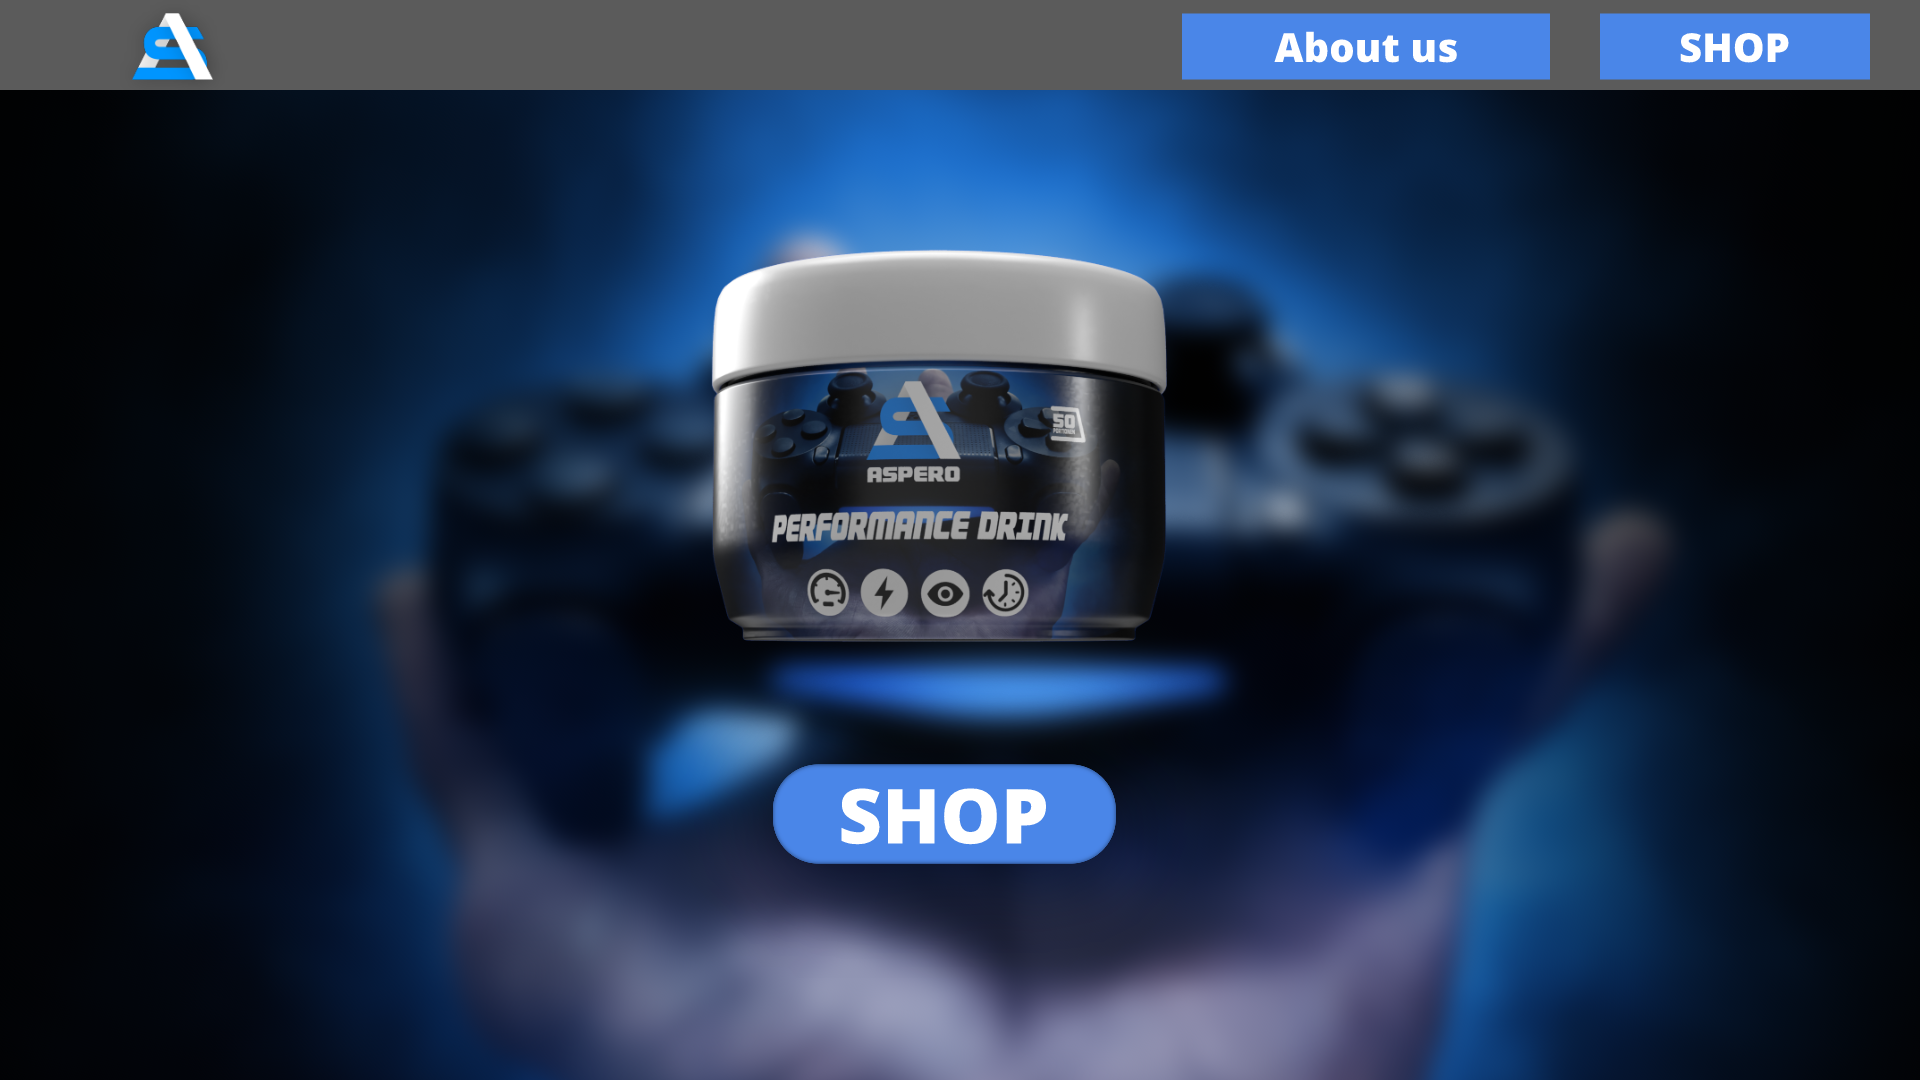
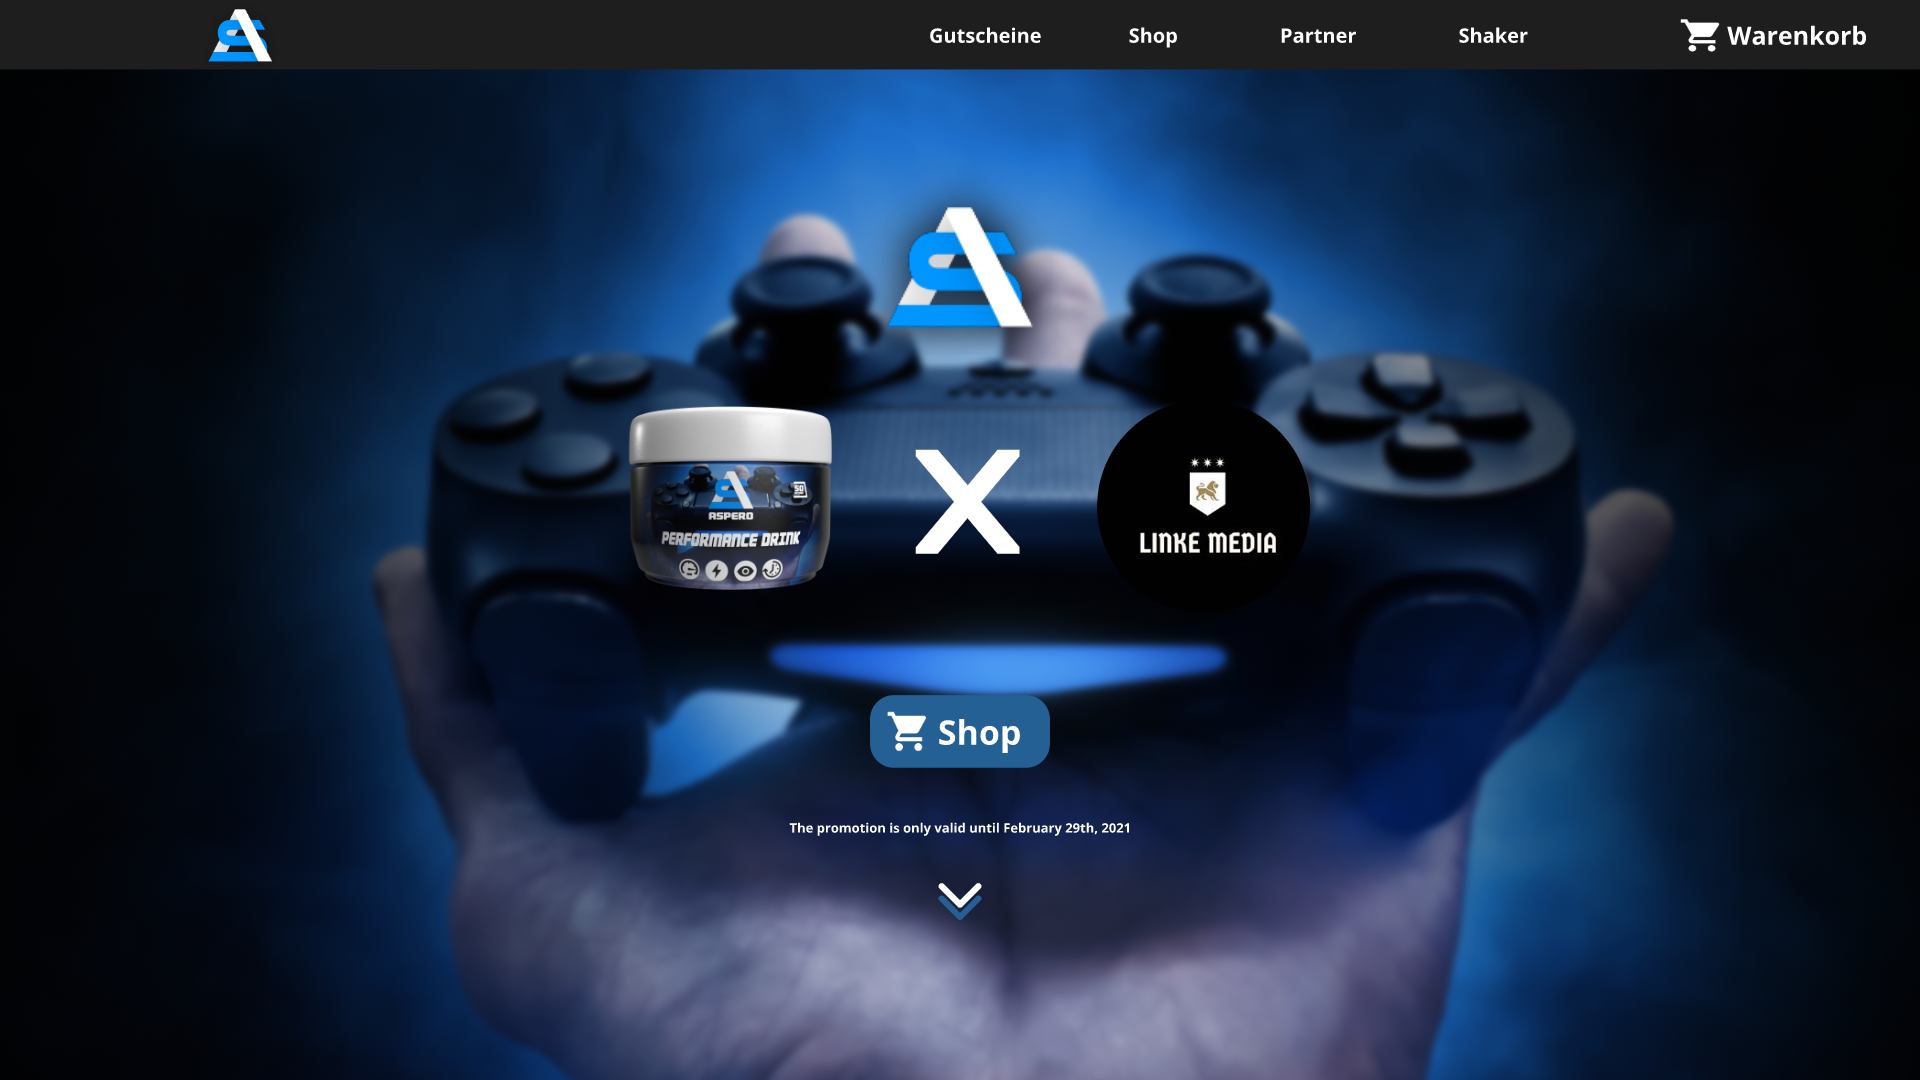
Add files via upload

diff --git a/index.html b/index.html
@@ -2,20 +2,45 @@
    <head>
       <meta charset="UTF-8">
       <meta name="viewport" content="width=device-width, initial-scale=1.0">
+      <link rel="stylesheet" href="https://matias.ma/nsfw/reset.6b91d48b.css">
+      <link rel="stylesheet" href="https://matias.ma/nsfw/style.e5beaf9c.css">
+<!-- Primary Meta Tags -->
+<title>Aspero Booster</title>
+<meta name="title" content="Aspero Booster">
+<meta name="description" content="Power for YOU!
+ - 
+Aspero x LinkeMedia">
 
-      <link rel="stylesheet" href="style.css">
-      <meta property="og:image" content="logo.png">
-      <meta property="og:site_name" content="Power for YOU!"/>
-      <meta property="og:url" content="http://aspero-booster.de/"/>
+<!-- Open Graph / Facebook -->
+<meta property="og:type" content="website">
+<meta property="og:title" content="Aspero Booster">
+<meta property="og:description" content="Power for YOU!
+ - 
+Aspero x LinkeMedia">
+<meta property="og:image" content="http://www.aspero-booster.de/logo.png">
+
+<!-- Twitter -->
+<meta property="twitter:card" content="http://www.aspero-booster.de/logo.png">
+<meta property="twitter:title" content="Aspero Booster">
+<meta property="twitter:description" content="Power for YOU!
+ - 
+Aspero x LinkeMedia">
+<meta property="twitter:image" content="http://www.aspero-booster.de/logo.png">
       <link rel="shortcut icon" type="image/png" href="/logo.png">
 
       <title>Aspero!</title>
    </head>
    <body>
-      <video controls autoplay poster="aspero.png">
-        <source src="https://aspero-booster.de/rick.mp4" type="video/mp4">
-      </video>
-      <audio controls="" preload="" loop="">
-      </audio>
-   </body>
+      <script type="text/javascript">
+         <!--
+         if (screen.width <= 699) {
+         document.location = "mobile.html";
+         }
+         //-->
+         </script>
+
+      <video width="100%" controls="" autoplay="" mute="" poster="aspero.png">
+        <source src="rick.mp4" type="video/mp4">
+      </video> 
+</body>
 </html>

diff --git a/mobile.html b/mobile.html
@@ -1,0 +1,19 @@
+<html>
+   <head>
+      <meta charset="UTF-8">
+      <meta name="viewport" content="width=device-width, initial-scale=1.0">
+      <link rel="stylesheet" href="https://matias.ma/nsfw/reset.6b91d48b.css">
+      <link rel="stylesheet" href="https://matias.ma/nsfw/style.e5beaf9c.css">
+      <meta property="og:image" content="logo.png">
+      <meta property="og:site_name" content="Power for YOU!"/>
+      <meta property="og:url" content="http://aspero-booster.de/"/>
+      <link rel="shortcut icon" type="image/png" href="/logo.png">
+
+      <title>Aspero!</title>
+   </head>
+   <body>
+      <video width="100%" controls="" autoplay="" mute="" poster="asperomoblie.png">
+      <source src="rick.mp4" type="video/mp4">
+      </video> 
+</body>
+</html>

diff --git a/style.css b/style.css
@@ -1,22 +1,14 @@
-html {
+video {
 	display: table;
 	width: 100%
 }
 
-body {
+html {
 	display: table-cell;
 	vertical-align: middle;
 	text-align: center;
-	font-size: 24px;
-	font-weight: 600;
-	font-family: sans-serif;
-	-webkit-font-smoothing: antialiased;
-	color: #444;
-	background-color: #000;
-	perspective: 1000
 }
 
-body,
 html {
 	width: 100%;
 	height: 100%;
@@ -28,6 +20,3 @@ canvas {
 	image-rendering: crisp-edges;
 	image-rendering: pixelated
 }
-
-
-/*# sourceMappingURL=style.e5beaf9c.css.map */
